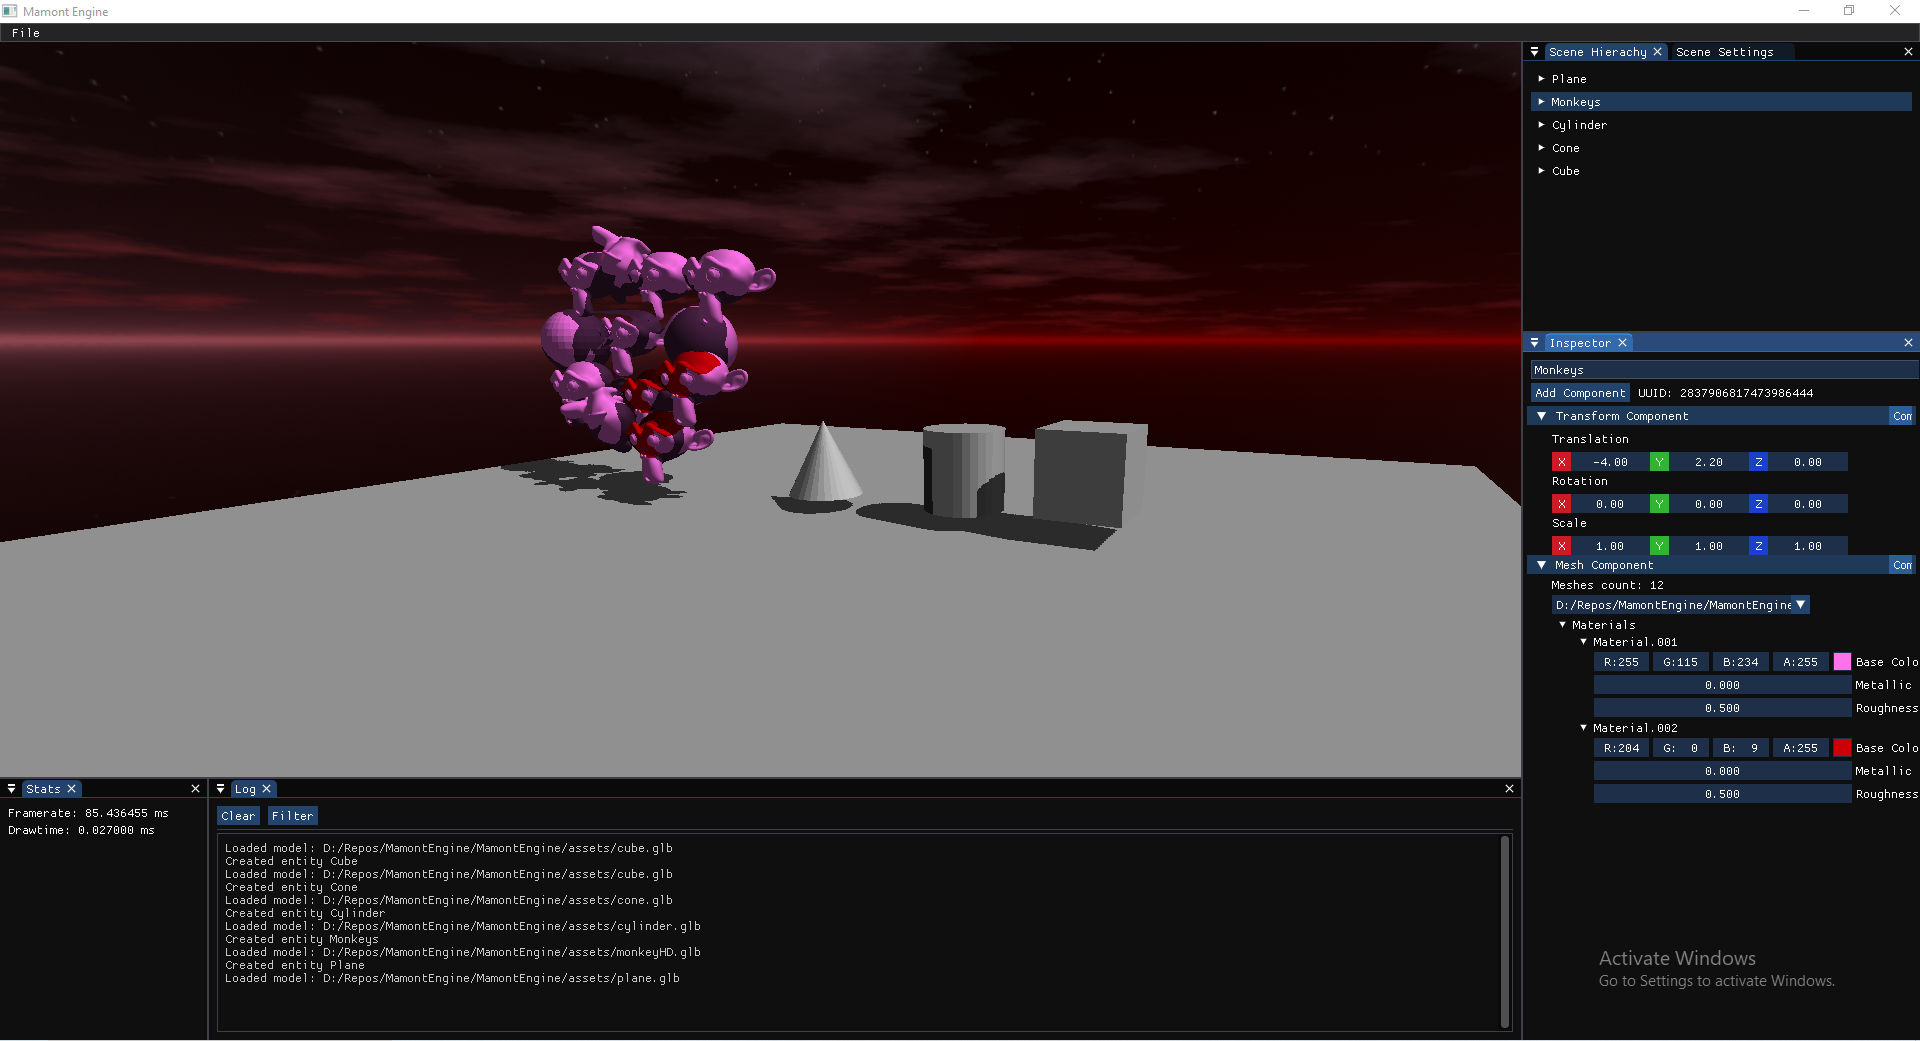
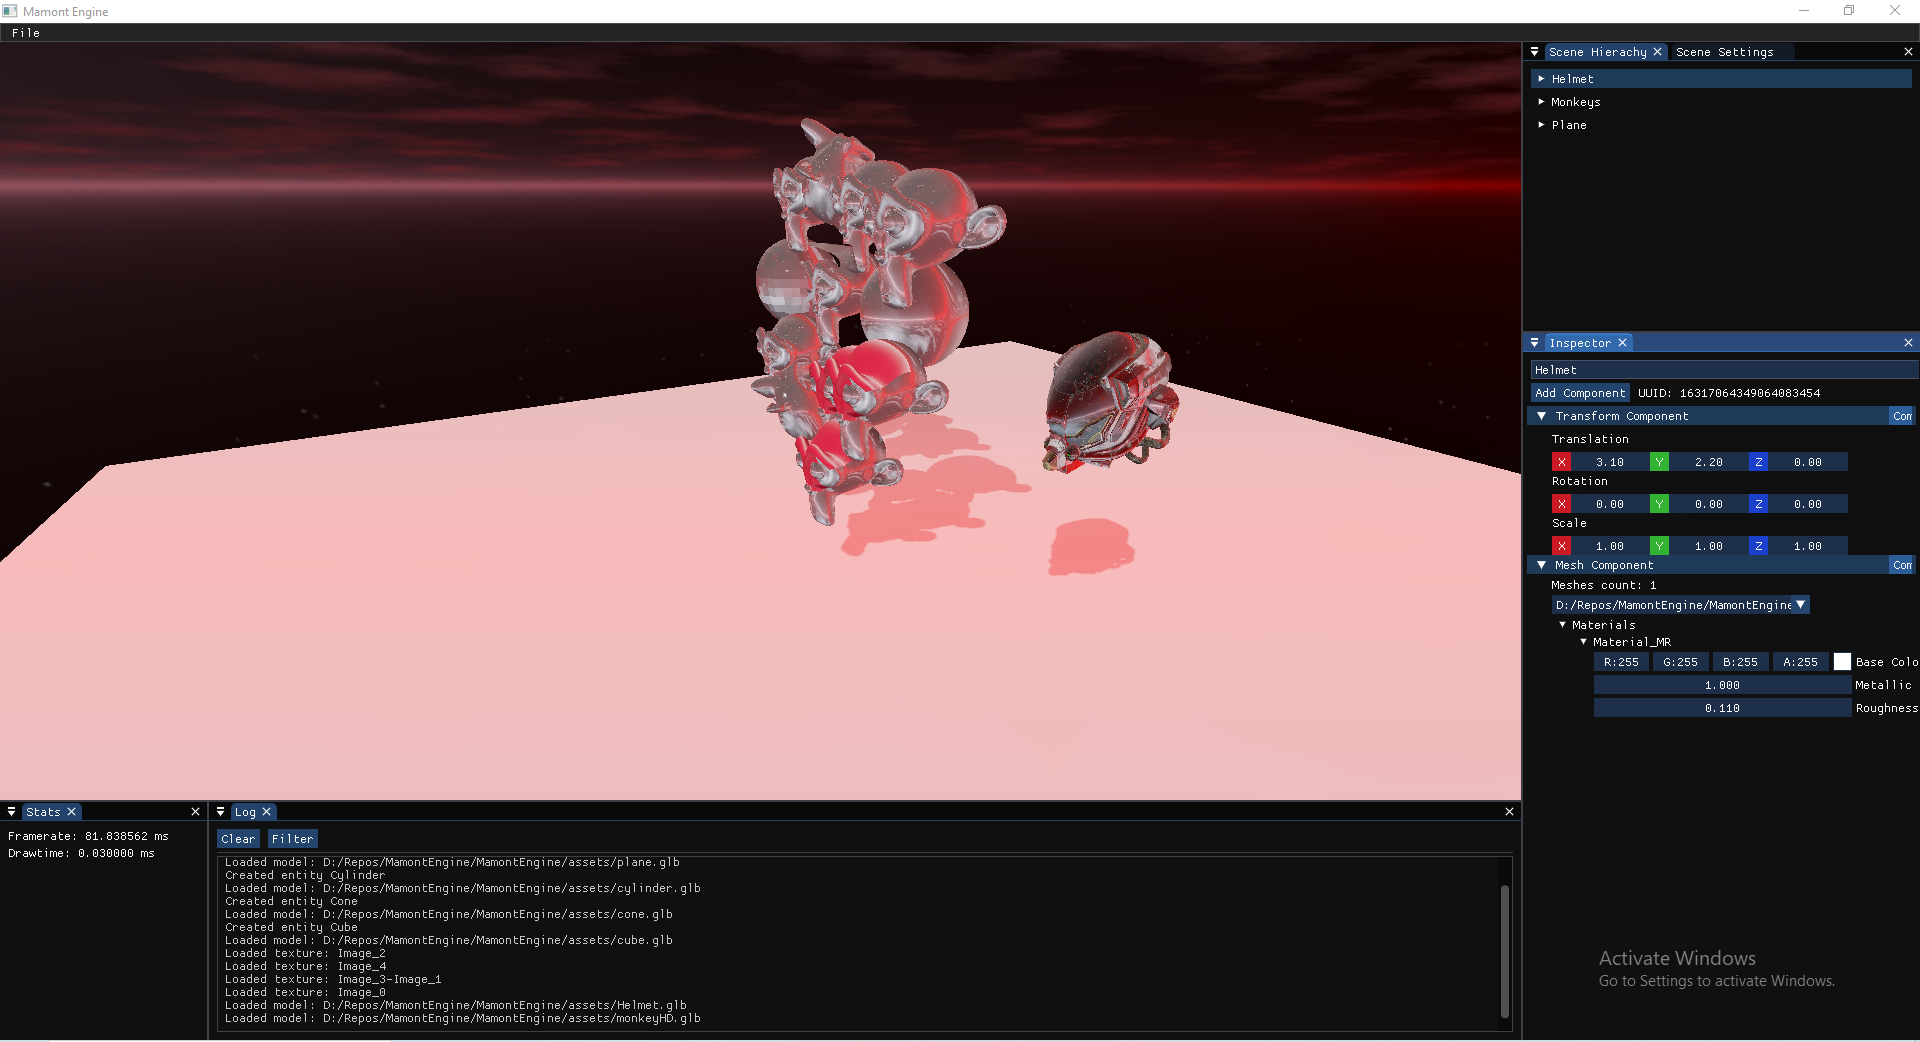
Updated Description

diff --git a/MamontEngine/src/Graphics/Resources/Models/Model.cpp b/MamontEngine/src/Graphics/Resources/Models/Model.cpp
@@ -149,7 +149,6 @@ namespace MamontEngine
     MeshModel::MeshModel(const VkContextDevice& inDevice, UID inID, std::string_view filePath) : m_ContextDevice(inDevice), ID(inID)
     {
         Load(filePath);
-        Log::Info("Loaded Model ID: {}", static_cast<uint64_t>(ID));
     }
 
     MeshModel::~MeshModel()
@@ -550,24 +549,23 @@ namespace MamontEngine
                 newNode->Mesh = m_Meshes[*node.meshIndex];
             }
 
-
-            std::visit(fastgltf::visitor{[&](const fastgltf::Node::TransformMatrix &matrix) { memcpy(&newNode->Matrix, matrix.data(), sizeof(matrix)); },
+            std::visit(fastgltf::visitor{[&](const fastgltf::Node::TransformMatrix &matrix) { 
+                memcpy(&newNode->Matrix, matrix.data(), sizeof(matrix)); 
+            },
                                          [&](const fastgltf::Node::TRS &transform)
                                          {
                                              newNode->Transform.Position = glm::vec3(transform.translation[0], transform.translation[1], transform.translation[2]);
                                              newNode->Transform.Rotation = glm::vec3(0);
                                              newNode->Transform.Scale    = glm::vec3(transform.scale[0], transform.scale[1], transform.scale[2]);
 
-                                             glm::mat4 translationMat = glm::translate(glm::mat4(1.0f), newNode->Transform.Position);
-                                             glm::quat rotation(transform.rotation[3], transform.rotation[0], transform.rotation[1], transform.rotation[2]);
-                                             glm::mat4 rotationMat = glm::toMat4(rotation);
-                                             glm::mat4 scaleMat    = glm::scale(glm::mat4(1.0f), newNode->Transform.Scale);
+                                             const glm::mat4 translationMat = glm::translate(glm::mat4(1.0f), newNode->Transform.Position);
+                                             const glm::quat rotation(transform.rotation[3], transform.rotation[0], transform.rotation[1], transform.rotation[2]);
+                                             const glm::mat4 rotationMat = glm::toMat4(rotation);
+                                             const glm::mat4 scaleMat    = glm::scale(glm::mat4(1.0f), newNode->Transform.Scale);
 
                                              newNode->Matrix = translationMat * rotationMat * scaleMat;
                                          }},
                        node.transform);
-
-            //newNode->WorldBounds = localBounds;
 
             m_Nodes.push_back(std::move(newNode));
         }

diff --git a/MamontEngine/src/Graphics/Vulkan/Swapchain.cpp b/MamontEngine/src/Graphics/Vulkan/Swapchain.cpp
@@ -10,14 +10,14 @@
 
 namespace MamontEngine
 {
-    void MSwapchain::Init(VkContextDevice &inDevice, const VkExtent2D &inExtent)
+    void MSwapchain::Init(const VkSurfaceKHR inSurface, const VkExtent2D &inExtent)
     {
-        Create(inDevice, inExtent);
+        Create(inSurface, inExtent);
     }
 
-    void MSwapchain::Create(const VkContextDevice &inDevice, const VkExtent2D &inExtent)
+    void MSwapchain::Create(const VkSurfaceKHR inSurface, const VkExtent2D &inExtent)
     {
-        vkb::SwapchainBuilder swapchainBuilder{PhysicalDevice::GetDevice(), LogicalDevice::GetDevice(), inDevice.Surface};
+        vkb::SwapchainBuilder swapchainBuilder{PhysicalDevice::GetDevice(), LogicalDevice::GetDevice(), inSurface};
         m_SwapchainImageFormat = VK_FORMAT_B8G8R8A8_UNORM; /*VK_FORMAT_R16G16B16A16_SFLOAT*/
         /*VK_FORMAT_B8G8R8A8_UNORM*/
         //Utils::FindSupportedFormat(PhysicalDevice::GetDevice());
@@ -41,13 +41,13 @@ namespace MamontEngine
         m_SwapchainImageViews       = m_vkbSwapchain.get_image_views().value();
     }
 
-    void MSwapchain::ReCreate(const VkContextDevice &inDevice, const VkExtent2D &inExtent)
+    void MSwapchain::ReCreate(const VkSurfaceKHR inSurface, const VkExtent2D &inExtent)
     {
         const VkDevice device = LogicalDevice::GetDevice();
 
         Destroy(device);
 
-        Create(inDevice, inExtent);
+        Create(inSurface, inExtent);
     }
 
     std::pair<VkResult, uint32_t> MSwapchain::AcquireImage(VkDevice inDevice, VkSemaphore inSemaphore)

diff --git a/MamontEngine/src/Core/ContextDevice.h b/MamontEngine/src/Core/ContextDevice.h
@@ -58,9 +58,11 @@ namespace MamontEngine
             return m_GraphicsQueueFamily;
         }
 
-        VkInstance               Instance{VK_NULL_HANDLE};
-        VkDebugUtilsMessengerEXT DebugMessenger{VK_NULL_HANDLE};
-        VkSurfaceKHR             Surface{VK_NULL_HANDLE};
+        VkInstance GetInstance() const
+        {
+            return Instance;
+        }
+
 
         VkFence TransferFence{VK_NULL_HANDLE};
 
@@ -123,6 +125,10 @@ namespace MamontEngine
     private:
         std::array<FrameData, FRAME_OVERLAP> m_Frames{};
         size_t                               m_FrameNumber{0};
+
+        VkInstance               Instance{VK_NULL_HANDLE};
+        VkDebugUtilsMessengerEXT DebugMessenger{VK_NULL_HANDLE};
+        VkSurfaceKHR             Surface{VK_NULL_HANDLE};
 
         VkQueue  m_GraphicsQueue{VK_NULL_HANDLE};
         uint32_t m_GraphicsQueueFamily{0};

diff --git a/MamontEngine/src/Core/ContextDevice.cpp b/MamontEngine/src/Core/ContextDevice.cpp
@@ -15,7 +15,7 @@
 
 namespace MamontEngine
 {
-    constexpr bool bUseValidationLayers = true;
+    constexpr bool bUseValidationLayers = false;
 
     static VKAPI_ATTR VkBool32 VKAPI_CALL DetailedDebugCallback(VkDebugUtilsMessageSeverityFlagBitsEXT      severity,
                                                                 VkDebugUtilsMessageTypeFlagsEXT             type,
@@ -506,7 +506,7 @@ namespace MamontEngine
 
     void VkContextDevice::InitSwapchain(const VkExtent2D &inWindowExtent)
     {
-        Swapchain.Init(*this, inWindowExtent);
+        Swapchain.Init(Surface, inWindowExtent);
         InitImage();
     }
 
@@ -551,7 +551,7 @@ namespace MamontEngine
 
         DestroyImages();
 
-        Swapchain.ReCreate(*this, inWindowExtent);
+        Swapchain.ReCreate(Surface, inWindowExtent);
 
         InitImage();
 

diff --git a/MamontEngine/src/Graphics/Vulkan/Swapchain.h b/MamontEngine/src/Graphics/Vulkan/Swapchain.h
@@ -9,11 +9,11 @@ namespace MamontEngine
 	class MSwapchain
 	{
     public:
-        void Init(VkContextDevice &inDevice, const VkExtent2D& inExtent);
+        void Init(const VkSurfaceKHR inSurface, const VkExtent2D &inExtent);
 
-        void Create(const VkContextDevice &inDevice, const VkExtent2D &inExtent);
+        void Create(const VkSurfaceKHR inSurface, const VkExtent2D &inExtent);
 
-        void ReCreate(const VkContextDevice &inDevice, const VkExtent2D &inExtent);
+        void ReCreate(const VkSurfaceKHR inSurface, const VkExtent2D &inExtent);
 
         std::pair<VkResult, uint32_t> AcquireImage(VkDevice inDevice, VkSemaphore inSemaphore);
 

diff --git a/MamontEngine/src/Core/ImGuiRenderer.cpp b/MamontEngine/src/Core/ImGuiRenderer.cpp
@@ -37,7 +37,7 @@ namespace MamontEngine
         // outPoolResult = imguiPool;
 
         ImGui_ImplVulkan_InitInfo initInfo = {};
-        initInfo.Instance                  = inContextDevice.Instance;
+        initInfo.Instance                  = inContextDevice.GetInstance();
         initInfo.PhysicalDevice            = PhysicalDevice::GetDevice();
         initInfo.Device                    = device;
         initInfo.QueueFamily               = inContextDevice.GetGraphicsQueueFamily();

diff --git a/MamontEngine/src/Graphics/Resources/Texture.cpp b/MamontEngine/src/Graphics/Resources/Texture.cpp
@@ -279,8 +279,8 @@ namespace MamontEngine
     {
         Texture        newTexture{};
         const uint32_t black = glm::packUnorm4x8(glm::vec4(0, 0, 0, 0));
-
         const uint32_t                magenta = glm::packUnorm4x8(glm::vec4(1, 0, 1, 1));
+
         std::array<uint32_t, 16 * 16> pixels{}; // for 16x16 checkerboard texture
         for (int x = 0; x < 16; x++)
         {

diff --git a/MamontEngine/src/Graphics/Resources/Models/Mesh.h b/MamontEngine/src/Graphics/Resources/Models/Mesh.h
@@ -1,7 +1,7 @@
 #pragma once 
 
 #include "Graphics/Resources/Material.h"
-#include "AABB.h"
+#include "Math/AABB.h"
 #include "Math/Transform.h"
 
 namespace MamontEngine

diff --git a/README.md b/README.md
@@ -8,6 +8,7 @@
 - ECS Integration
 - Save/Load scene
 - Cascade Shadow Mapping
+- Physically Based Rendering
 
 ## Dependencies
 - Vulkan SDK (1.4)
